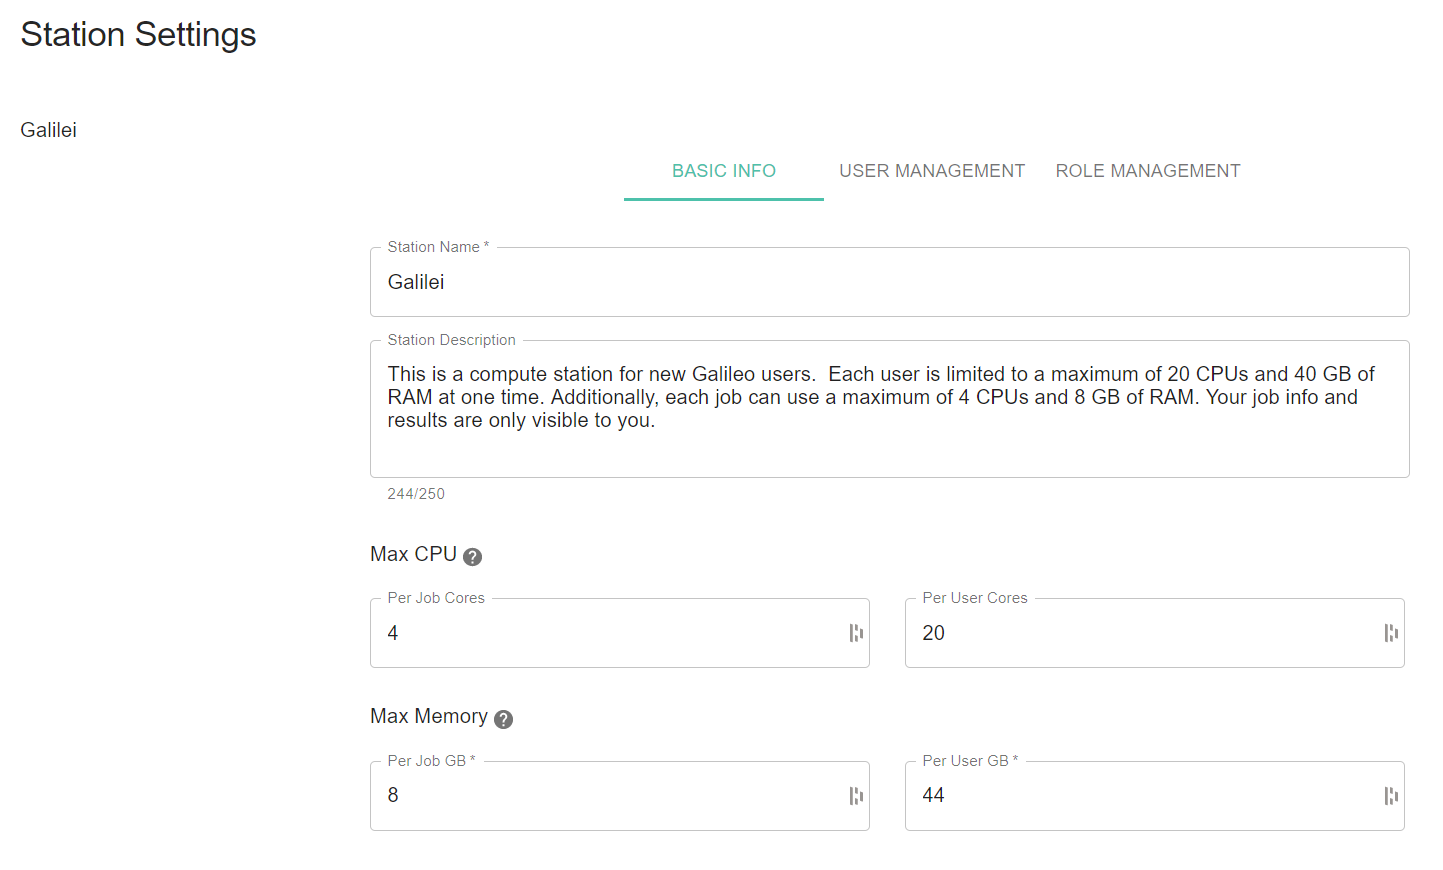
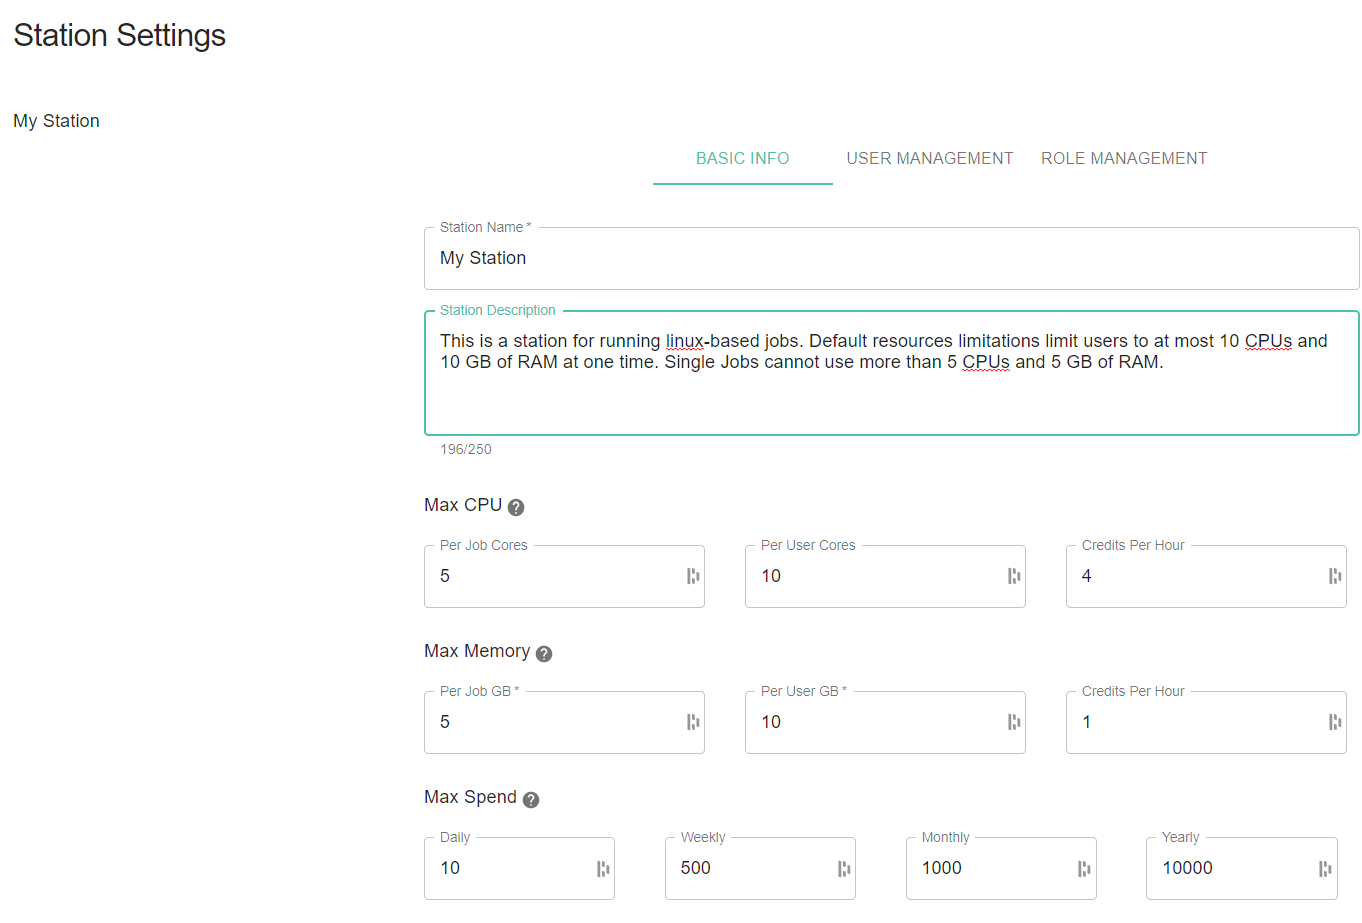
update

diff --git a/docs/src/stations.rst b/docs/src/stations.rst
@@ -3,12 +3,12 @@
 Stations Guide
 ==============================================
 
-Stations are a Galileo feature that make it quick and simple to share permissioned access to nearly any kind of computational resource. They also provide a built in queueing/scheduling mechanism so that Station administrators can 
+Stations are a Galileo feature that make it quick and simple to manage permissioned access to nearly any kind of computational asset with an internet connection. They also provide a built-in queueing/scheduling mechanism so that resource administrators can provide fair access to limited computational devices without spending hours setting up access rules and priority queues. 
 
 Creating Your Own Galileo Station 
 --------------------------------------
 
-A Station can be created both in the web-based UI and through the python SDK. In order to create a station through the UI, start by clicking on the Stations tab once you've logged into your account from a webbrowser. 
+A Station can be created both in the web-based UI and through the Python SDK. In order to create a station through the UI, start by clicking on the Stations tab once you've logged into your account from a web browser. 
 
 .. image:: images/stations_tab.png
 
@@ -16,11 +16,11 @@ Next, click the 'Create Station' button in the upper right corner of the screen.
 
 .. image:: images/stations_create.png
 
-This will bring up a configuration window where you must name the Station and optionally provide a discription (which can be useful for conveying important information to Station members that you will invite later). 
+This will bring up a configuration window. Here, you must name the Station and optionally provide a description (which can be useful for conveying important information to Station members). 
 
 .. image:: images/stations_name.png
 
-After clicking the final "Create Station" button, you will see a new station appear in your Stations tab. At the point you can now proceed with additional configuration of your Station, such as attaching Landing Zones and inviting collaborators and assigning them permissioned roles. 
+After clicking the final "Create Station" button, you will see a new station appear in your Stations tab. At this point, you canF proceed with additional configuration of your Station, such as attaching `Landing Zones <stations.html#adding-a-landing-zone-to-your-station>`_, `inviting collaborators <stations.html#inviting-collaborators>`_, and assigning them permissioned `roles <stations.html#user-roles-and-resource-settings>`_. 
 
 Adding a Landing Zone to Your Station
 ---------------------------------------
@@ -36,23 +36,25 @@ This will bring up a list for you to choose which LZ to add (or remove) from thi
 .. image:: images/stations_add_lz_2.png
     :align: center
 
-Now that you have attached a Landing Zone to your Station, you can submit jobs to it. To learn more about about launching jobs in Galileo, go `here <missions.html>`_. Galileo will automatically queue jobs if your LZ resources are fully utilized. Once sufficient resources on an LZ opens up, queued jobs will be dispatched. 
+Now that you have attached a Landing Zone to your Station, you can submit jobs to it. To learn more about launching jobs in Galileo, go `here <missions.html>`_. Galileo will automatically queue jobs if your LZ resources are fully utilized. Once sufficient resources on an LZ open up, queued jobs will be dispatched. 
 
-Note: If you remove an LZ from a Station while it is still running a job, the job will still run to completion unless you explicity cancel or kill the job. 
+Note: If you remove an LZ from a Station while it is still running a job, the job will continue to run until completion unless you explicity cancel or kill the job. 
 
 Inviting Collaborators
 -------------------------
 
-To invite other Galileo users to your new Galileo Station so that they can run jobs or even contribute their own LZs (should their user role permit), start by opening the Station settings page by clicking the dots in the upper-right of the Station's page. 
+To invite other Galileo users to your new Galileo Station so that they can run jobs or even contribute their own LZs (should their user role permit), start by opening the Station settings page by clicking the "+" button next to the User Count statistic. 
 
-.. image:: images/stations_settings_button.png
+.. image:: images/stations_add_user_button.png
 
-Next navigate to the "USER MANAGEMENT" tab. This is where you can add and remove Station members as well as assign them specific roles. 
+This will open the "USER MANAGEMENT" tab where you can add and remove Station members as well as assign them specific roles. 
 
 .. image:: images/stations_user_management.png
 
-User Roles
------------
+Click the small "+" button to the right of the search field to invite a new user and set their role (a user's role can be changed at anytime). 
+
+User Roles and Resource Settings
+---------------------------------
 
 By default, there are three user roles available upon the creation of a new Station: Admin, Contributor, and Launcher. 
 
@@ -62,18 +64,23 @@ These roles can be customized by clicking the edit button on the role you wish t
 
 .. image:: images/stations_user_role_permissions.png
 
-In addition to the role capabilities, resource limitations can be customized for each role. Values specified here will apply to any user assigned with the associated role. They can be left empty if you do not wish to have custom role resource limitations. When a job is submitted by a user in the Station with this role, the most restrictive resource limit (job specific, role specific, station specific) is the one that ultimately applies. 
+In addition to the role capabilities, resource limitations and usage quotas can be customized for each role by clicking the "resoures" tab next to "permissions". Values specified here will apply to any user assigned with the associated role. These values can be left empty if you do not wish to apply custom role-specific resource/quota limitations. 
 
 .. image:: images/stations_user_role_resources.png
 
-Setting Resource Limits and Basic Information
-------------------------------------------------------
+In the example pictured above, any user with the Launcher role can use at most 10 CPUs and 10 GB of RAM at one time and each individual job can use at most 5 CPUs and 5 GB of RAM. Every CPU-hour will cost 4 credits and each GB-hour will cost 1 credit, so if the user runs a job for 1 hour that uses 1 CPU and 1 GB of RAM, it will cost them 5 credits which is subracted from their quota. A quota can be set for the daily, weekly, and monthly time frame. For example, in the screen shot above, the Launcher role can use 10 credits per day, 500 credits per week, 1000 credits per month, or 10000 credits per year. As soon as the user hits one of these credit limits, they will not be able to run more jobs until the associated time period resets (so if they use up 10 credits before the end of a day, they will have to wait for the next 24 hour period for their daily credit quota to reset). 
 
-In the Basic Info tab of Station Settings, admins can edit the Station name and description.  
+Basic Station Settings and Resource Limits
+------------------------------------------------------
+To get to the Station-level settings page, click the three dots in the upper right corner of the Station main page. 
+
+.. image:: images/stations_settings_button.png
+
+In the Basic Info tab of Station Settings, admins can edit the Station name and description. Descriptions must be limited to 250 characters.  
 
 .. image:: images/stations_basic_info.png
 
-Additionally, basic resource limitations can be set that will apply to all users in the Station context. These limitations can be left empty if you do not wish to impose limitations at the Station level. 
+Additionally, basic resource limitations can be set that will apply to all users in the Station context. These limitations can be left empty if you do not wish to impose limitations at the Station level. The Station-level resource and quota limitations are applied to a job if there are no role-level resource/quota limitations associated with the user who submitted the job. See `User Roles and Resource Settings <stations.html#user-roles-and-resource-settings>`_ for more information about setting resource and quotas. 
 
 Station Volumes
 ----------------
@@ -88,13 +95,22 @@ A volume can be added to a Station by clicking the volume icon in the context of
 
 .. image:: images/stations_volume.png
 
-The volume must be given a name consisting of alpha-numeric characters and a unique mount path within the container. You must also choose if the volume will have write access via the supplied check box. 
+The volume must be given a name consisting of alpha-numeric characters and a unique mount path within the container. You must also choose if the volume will have write access via the supplied check box.
 
-.. image:: images/stations_volumes_mount_path.png
+.. image:: images/stations_volume_mount_path.png
 
-Optionally, a host path may be specified if you wish to expose a location on your LZ's hard drive. Remember that every job that is submitted within this Station context will mount all volumes specified here (this is why the mount path for a volume must be unique). 
 
-If you are running windows containers, you must provide mount paths that are Windows compatible, e.g. C:\Users\Public or D:. For example, if you want do expose you E: drive as a volume, your host path and mount path should both be entered as E:.  
+Optionally, a host path may be specified if you wish to expose a location on your LZ's hard drive. First navigate to the Host Paths settings. 
+
+.. image:: images/stations_volume_add_host_path.png
+
+Then write in the path on the host machine that you wish to expose at the mount path that was already set above. 
+
+.. image:: images/stations_volume_set_host_path.png
+
+Caution: Every job that is submitted within this Station context will mount all volumes specified here (this is why the mount path for a volume must be unique). If you specifiy a host path for a volume, be sure that this path exists on all hosts running an LZ that is attached to this station, otherwise jobs submitted to machines without the specified host path will error at container run time.
+
+If you are running windows containers, you must provide mount paths that are Windows compatible, e.g. C:\\Users\\Public or D: if you want to mount the entire D drive. For example, if you want do expose you E: drive as a volume, your host path and mount path should both be entered as E: with no trailing slash.  
 
 Station Queues
 ----------------

diff --git a/docs/src/index.rst b/docs/src/index.rst
@@ -1,12 +1,17 @@
+.. _introduction:
+
 .. title:: Galileo Docs
 
 .. image:: images/galileo_pres.png
 
-Galileo is a hub for modeling, simulations, and data analysis that functions as an intuitive, easy-to-use portal to cloud and traditional, on-premises resources.  Galileo streamlines the utilization of computing infrastructure for all scientific computing applications, saving engineers and researchers the time and frustration involved in setting up an adequate simulation or analysis pipeline.  The Missions and Stations features in Galileo allow teams to collaborate efficiently on complex projects by sharing input files and data as well as computational resources in a simple fashion. Additionally, Galileo lets users flexibly control roles and permissions, and easily the track results histories of previous calculations.
+Introduction
+==============
 
-The Galileo Landing Zone (LZ) deamon is a containerized daemon process that allows Galileo users to connect any computational resource with an internet connection to their Galileo account. Once the Galileo LZ daemon is authenticated against a user's account, a user must add the LZ to a Galileo Station where they can then invite collaborators who can then deploy jobs to the LZ with no additional configuration. 
+Galileo is a hub for modeling, simulations, and data analysis that functions as an intuitive, easy-to-use portal to cloud and traditional, on-premises resources.  Galileo streamlines the utilization of computing infrastructure for all scientific computing applications, saving engineers and researchers the time and frustration involved in setting up an adequate simulation or analysis pipeline.  The `Missions <missions.html>`_ and `Stations <stations.html>`_ features in Galileo allow teams to collaborate efficiently on complex modeling and simulation projects by sharing input files and data as well as computational resources in a simple, easy-to-understand fashion. Additionally, Galileo lets users flexibly control roles and permissions, and easily track result histories of previous calculations.
 
-The Galileo SDK allows users to interact with the Galileo service using a Python script (both python2 and python3 are supported) instead the web-based graphical interface.  Use the SDK to automate processes such as scheduling jobs, automatically deploying jobs, accepting jobs, and accepting members as well as to integrate cloud computing into other applications.
+The Galileo `Landing Zone <landing_zones.html>`_ (LZ) deamon is a containerized daemon process that allows Galileo resource administrators to quickly and securely connect any computational resource with an internet connection to their Galileo account. Once the Galileo LZ daemon is authenticated against a user's account, a user must add the LZ to a Galileo Station. Here, they can then invite collaborators who can then deploy jobs to the LZ with no additional configuration. 
+
+The Galileo `SDK <galileo_sdk.html>`_ allows users to interact with the Galileo service using a Python script (both python2 and python3 are supported) instead of the web-based graphical interface.  Use the SDK to automate processes such as scheduling and deploying jobs, as well as to integrate Galileo into external applications.
 
 .. toctree::
    :maxdepth: 2

diff --git a/docs/src/landing_zones.rst b/docs/src/landing_zones.rst
@@ -3,7 +3,7 @@
 Quickstart for Landing Zones
 ============================
 
-The Galileo Landing Zone (LZ) daemon is a containerized daemon process that allows users to deploy jobs from the Galileo web-service to their own computational resources. 
+The Galileo Landing Zone (LZ) daemon is a containerized daemon process that facilitates the deployment of containerized jobs from the Galileo web-service. The LZ daemon pulls input file and metadata, runs the associated containerized job, monitors its health and status, and posts the results of completed jobs back to the Galileo web-service. Access to machines running the LZ is controlled via the `Stations <stations.html>`_ feature, where Station administrators set permissions and resource limitations. 
 
 .. image:: images/Galileo_LZ.png
 
@@ -51,7 +51,12 @@ How to Run the Landing Zone daemon
     URL: https://galileoapp.auth0.com/activate
     Code: XXXX-XXXX
 
-* Follow those instructions. Once you have confirmed your code at the provided URL you should see your new Landing Zone appear in the Galileo Landing Zones tab! In order to submit jobs to your new LZ, you must add it to a Station. You can create a new Station by going to the Stations tab and clicking the Create Stations button. 
+* Follow those instructions. Once you have confirmed your code at the provided URL you should see your new Landing Zone appear in the Galileo Landing Zones tab as show below! 
+
+.. image:: images/landing_zone_tab.png
+
+* In order to submit jobs to your new LZ, you must add it to a `Station <stations.html#adding-a-landing-zone-to-your-station>`_. You can create a new Station by going to the Stations tab and clicking the Create Stations button.
+
 |
 Stopping and Restarting the Landing Zone daemon
 -----------------------------------------------
@@ -102,7 +107,7 @@ Running the Landing Zone daemon
     version: "3.3"
     services:
       landing-zone:
-        image: hypernetlabs/landing-zone-daemon
+        image: hypernetlabs/landing-zone-daemon:head
         volumes:
           - /var/run/docker.sock:/var/run/docker.sock
           # uncomment the following line if you need your LZ to have access to private Docker Hub repositories
@@ -116,14 +121,14 @@ Running the Landing Zone daemon
     volumes:
       tokens:
 
-* If you are running windows containers, copy this into a text file named docker-compose.yml:
+* If you are on a windows host and running windows containers, copy this into a text file named docker-compose.yml:
 
 .. code-block:: yaml
 
     version: "3.3"
     services:
       landing-zone:
-        image: hypernetlabs/landing-zone-daemon:head-windowsservercore-1809
+        image: hypernetlabs/landing-zone-daemon:head
         volumes:
           - source: '\\.\pipe\docker_engine'
             target: '\\.\pipe\docker_engine'
